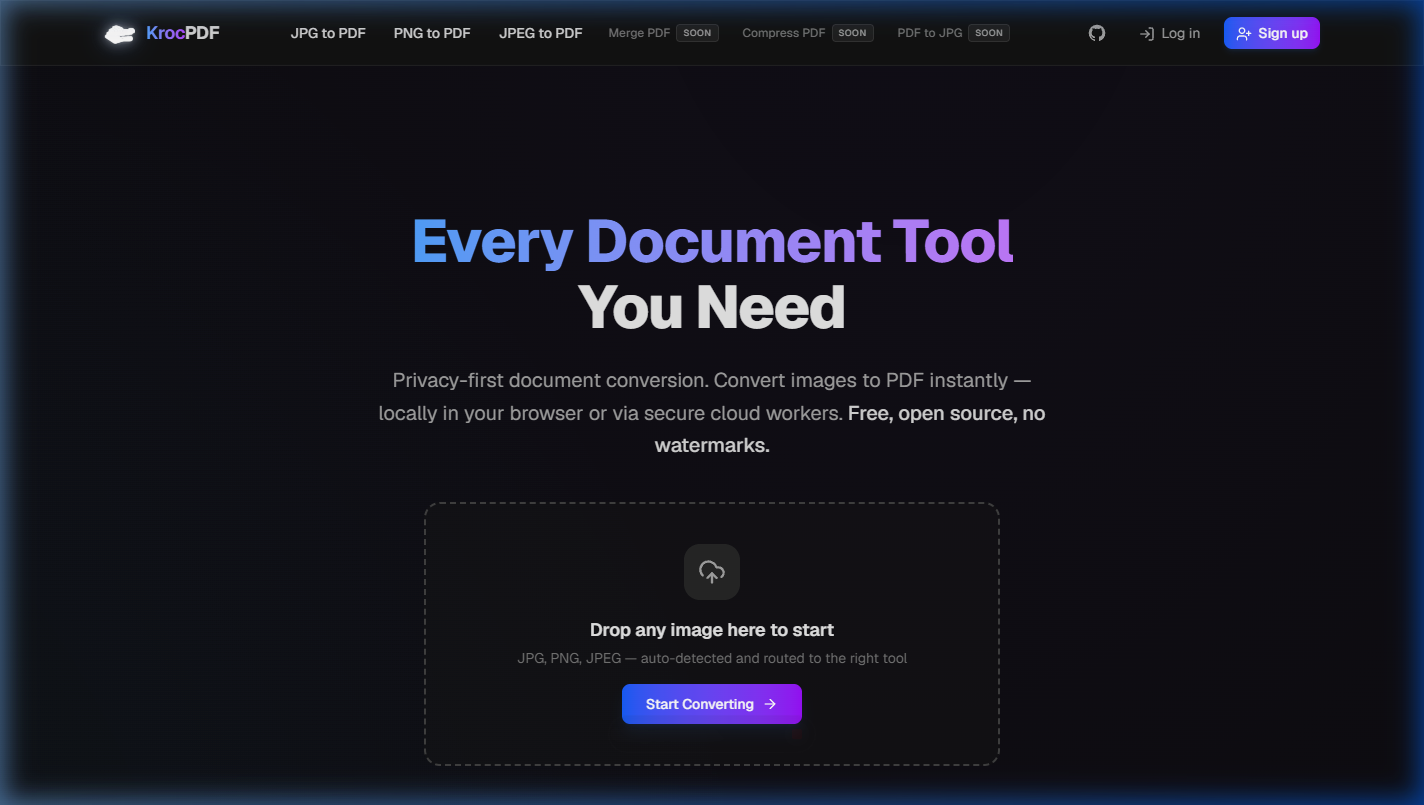
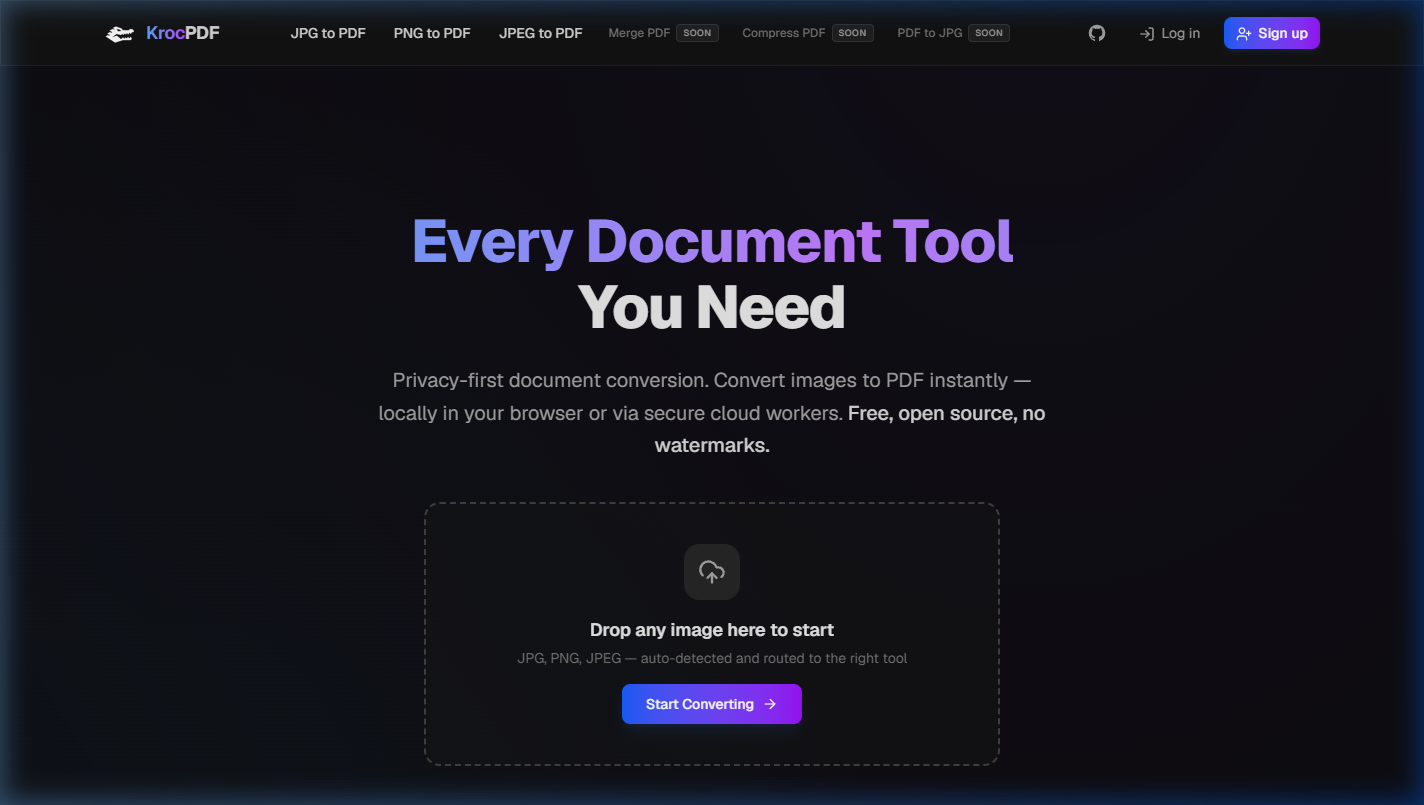
feat: add Navbar and Footer components and documentation assets

diff --git a/frontend/src/components/Footer.tsx b/frontend/src/components/Footer.tsx
@@ -22,9 +22,6 @@ export function Footer() {
                   width={28}
                   height={28}
                   className="w-7 h-7 object-contain group-hover:scale-105 transition-transform duration-200"
-                  style={{
-                    filter: 'drop-shadow(1px 0 0 rgba(255,255,255,0.95)) drop-shadow(-1px 0 0 rgba(255,255,255,0.95)) drop-shadow(0 1px 0 rgba(255,255,255,0.95)) drop-shadow(0 -1px 0 rgba(255,255,255,0.95)) drop-shadow(0 0 6px rgba(255,255,255,0.5)) drop-shadow(0 0 12px rgba(59,130,246,0.35))'
-                  }}
                 />
               </div>
               <span className="text-base font-bold tracking-tight">

diff --git a/frontend/src/components/Navbar.tsx b/frontend/src/components/Navbar.tsx
@@ -36,9 +36,6 @@ export function Navbar() {
                 width={32}
                 height={32}
                 className="w-8 h-8 object-contain group-hover:scale-105 transition-transform duration-200"
-                style={{
-                  filter: 'drop-shadow(1px 0 0 rgba(255,255,255,0.95)) drop-shadow(-1px 0 0 rgba(255,255,255,0.95)) drop-shadow(0 1px 0 rgba(255,255,255,0.95)) drop-shadow(0 -1px 0 rgba(255,255,255,0.95)) drop-shadow(0 0 6px rgba(255,255,255,0.5)) drop-shadow(0 0 12px rgba(59,130,246,0.35))'
-                }}
                 priority
               />
             </div>
